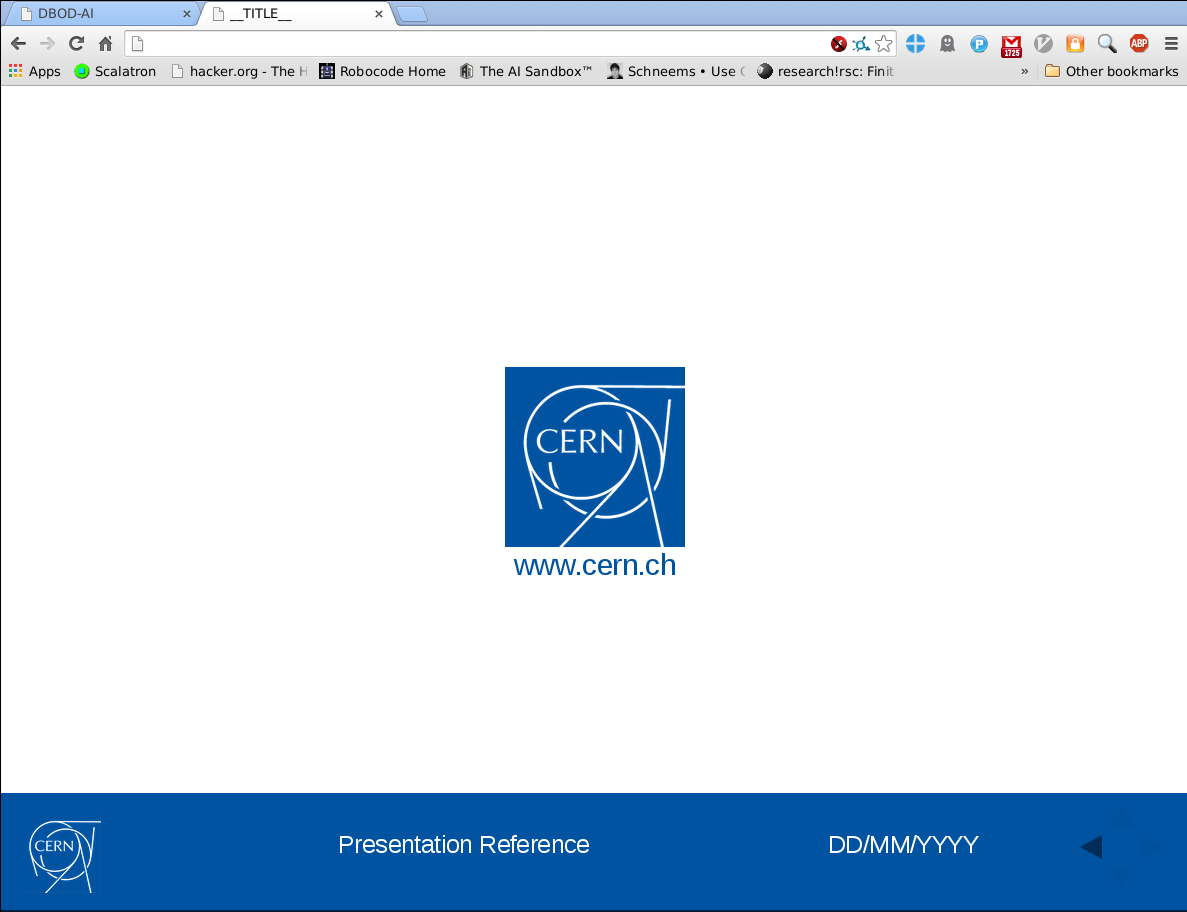
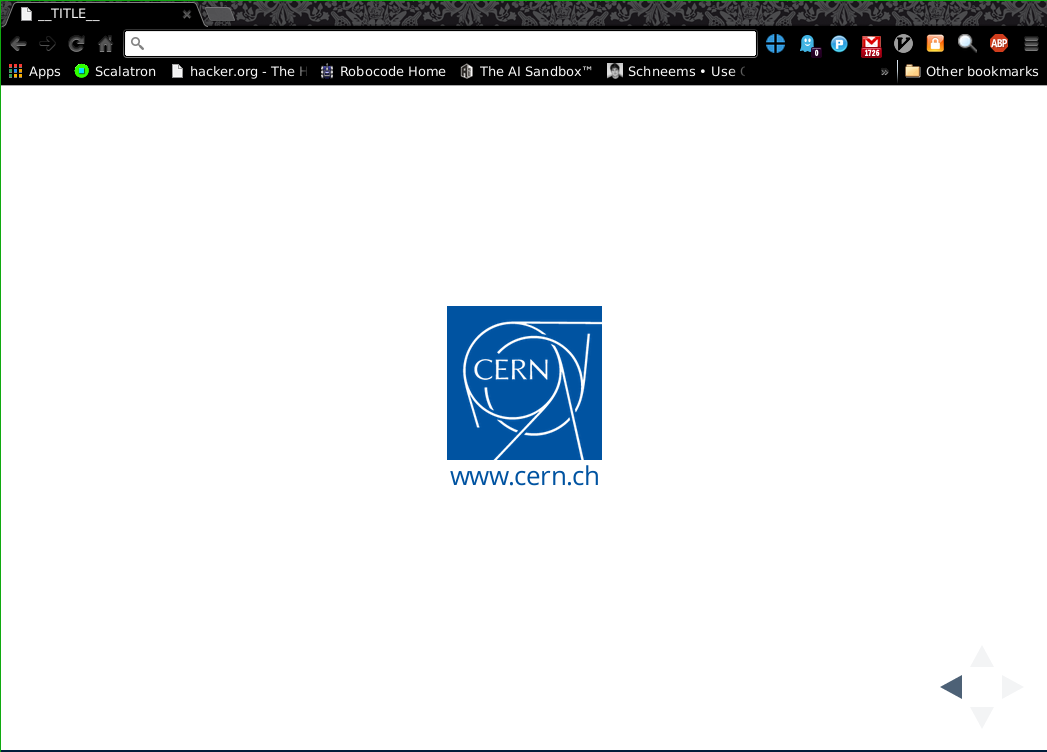
Removed footer bar from tail slide Reordered top/title slide in template Updated tail slide screenshot

Changed region(s): [[0.0, 0.8564, 1.0, 1.0], [0.0, 0.0, 1.0, 0.1223], [0.4279, 0.3976, 0.5807, 0.6423]]

diff --git a/cern-template.html b/cern-template.html
@@ -42,16 +42,16 @@
 
 			<!-- Any section element inside of this container is displayed as a slide -->
 			<div class="slides">
+				<!-- Top slide -->
+				<section data-background="#0053A1">
+                    <div class="CERNlogoCentered"></div>
+				</section>
 				<section>
 					<h1>Main Title</h1>
 					<h3>Subtitle</h3>
 					<p>
 						<small>Author Name/ <a href="__LINK__">Email/@Twiiter</a></small>
 					</p>
-				</section>
-				<!-- Post-title badge slide -->
-				<section data-background="#0053A1">
-                    <div class="CERNlogoCentered"></div>
 				</section>
 				<section>
 					<h2>Contents</h2>
@@ -75,8 +75,8 @@
 					</section>
                 </section>
 
-                <!-- Closing slide -->
-                <section>
+                <!-- Tail slide -->
+                <section data-background="white">
                     <div class="CERNlogoCentered" style="width:180px">
                     </div>
                     <p>www.cern.ch</p>
